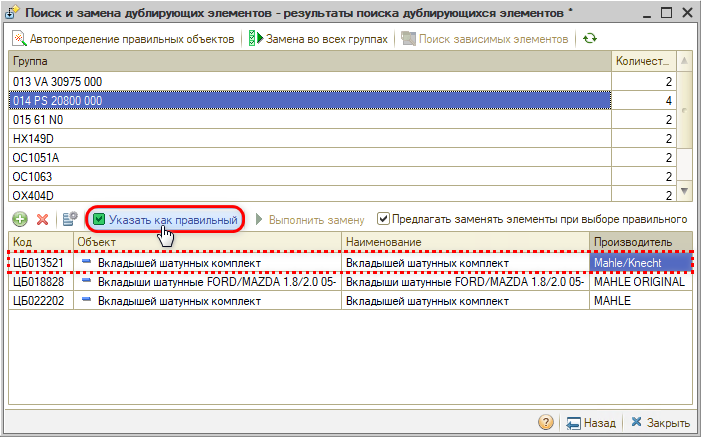
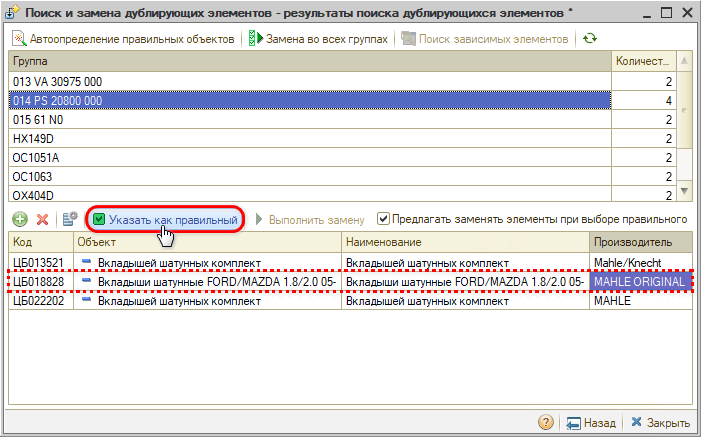
Статья «Поиск и замена дублирующихся записей»: правильная карточка в примере – вторая (ЦБ018828, самое полное наименование); скриншоты 07–09 переделаны под нее (Катя, 28.10.2026).

diff --git a/articles/5S AUTO/Администрирование и настройка системы/Поиск и замена дублирующихся записей/poisk-i-zamena-dubliruyuschikhsya-zapisey.md b/articles/5S AUTO/Администрирование и настройка системы/Поиск и замена дублирующихся записей/poisk-i-zamena-dubliruyuschikhsya-zapisey.md
@@ -81,7 +81,7 @@
 
 Если в элементе-дубле есть данные, которых нет в правильном элементе, переносим их в правильный элемент до объединения.
 
-Устанавливаем курсор на правильную запись (в примере – первая карточка) и нажимаем кнопку «Указать как правильный»:
+Устанавливаем курсор на правильную запись (в примере – вторая карточка: у нее самое полное наименование) и нажимаем кнопку «Указать как правильный»:
 
 ![Указание правильного среди дублей](attachments/07-ukazanie-pravilnogo-sredi-dubley-1.png)
 
